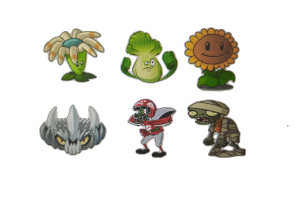
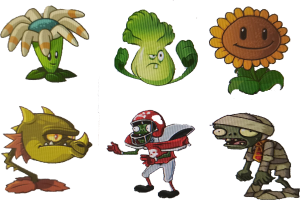
第一次提交小修改

diff --git a/rpgobj.cpp b/rpgobj.cpp
@@ -25,7 +25,7 @@ void RPGObj::initObj(string type)
     this->_icon = ICON::findICON(type);
     QImage all;
 
-    all.load(":/pics/renwu.jpg");
+    all.load(":/pics/duixiang.png");
     this->_pic = all.copy(QRect(_icon.getSrcX()*ICON::GRID_SIZE, _icon.getSrcY()*ICON::GRID_SIZE, _icon.getWidth()*ICON::GRID_SIZE, _icon.getHeight()*ICON::GRID_SIZE));
 }
 
